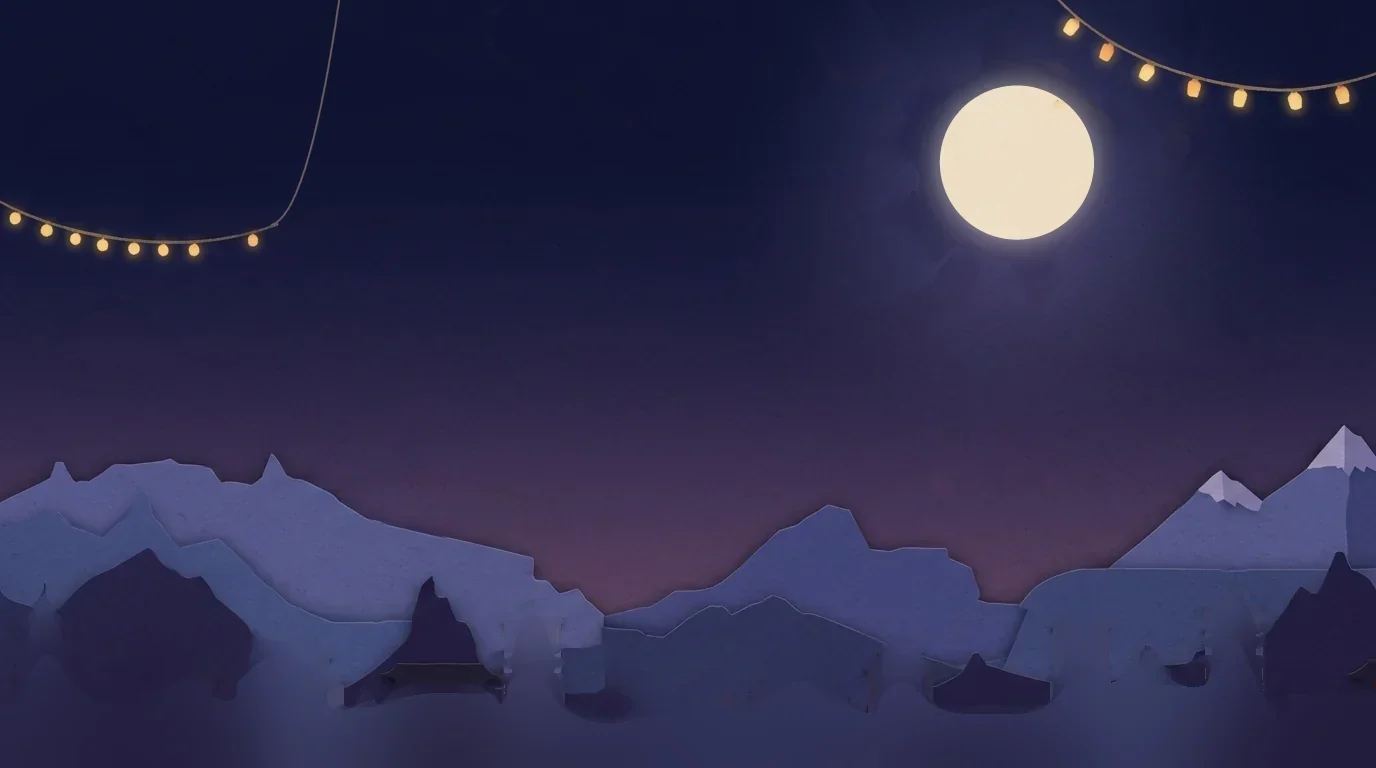
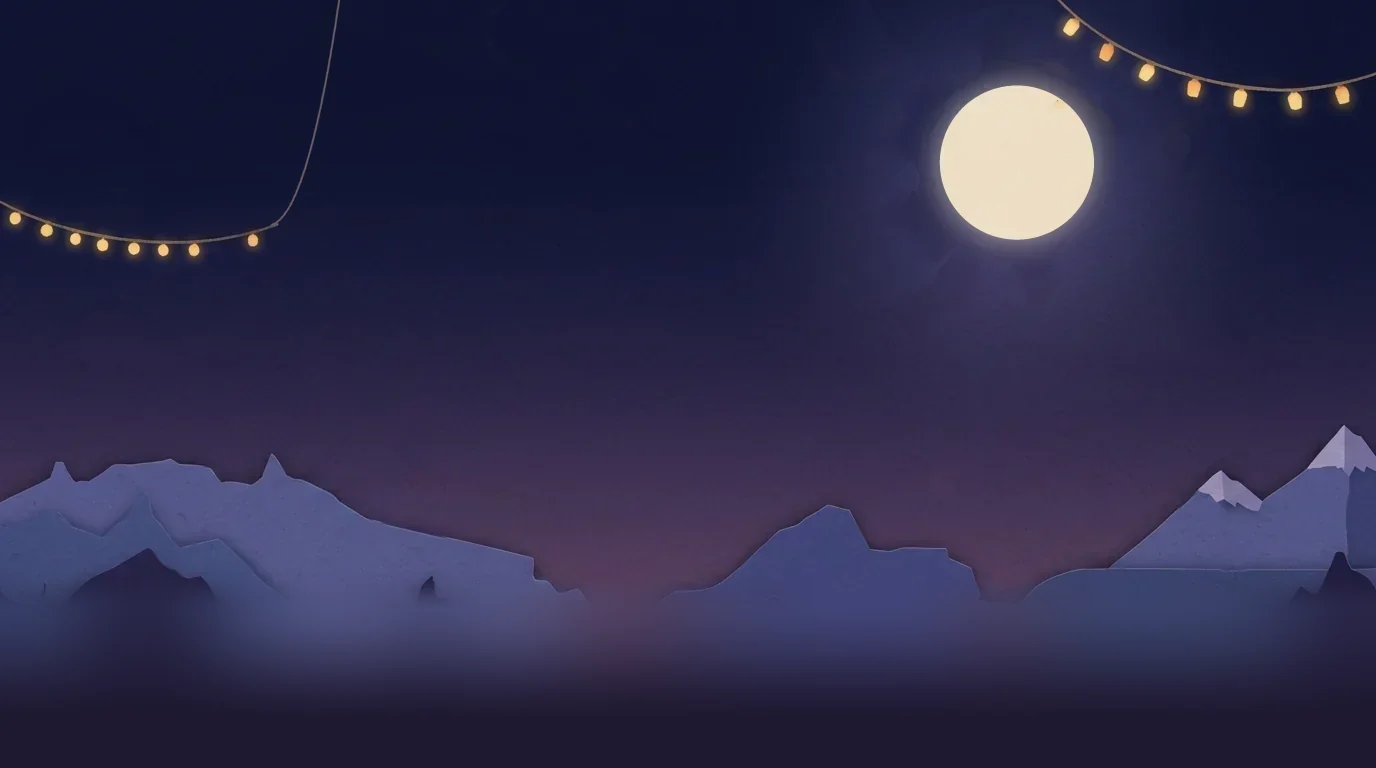
- improving bg images

diff --git a/src/umbrella/art/paint.ts b/src/umbrella/art/paint.ts
@@ -1197,7 +1197,8 @@ const NORMAL_RGB = '140,200,255'
 // The designer's Super Stream is a deeper swirling blue wave; the lantern
 // build's is a fierce orange firework ribbon (the vector game's orange arrows).
 const SUPER_RGB = isLantern ? '255,138,42' : isClay ? '232,128,58' : '70,150,215'
-/** The folded strips' box: a deep navy (a dark amber for a Super Stream), so it reads against the sky. */
+/** Clay's folded strips' box: a deep navy (a dark amber for a Super Stream), so it reads against the
+ *  misty town (lantern keeps its light field: the night sky is dark). */
 const PAPER_FIELD_RGB = '20,28,62'
 const PAPER_FIELD_SUPER_RGB = '72,38,8'
 /** The clay field is a paler, milkier blue than the drawn one. */
@@ -1923,12 +1924,15 @@ const wind = (ctx: CanvasRenderingContext2D, live: WindDef, def: WindDef, w: Wor
     // The paper strips carry their field in their cache (one fill of the current a frame, not two).
     if (!paper) softRect(ctx, tex, live.x, live.y, live.w, live.h, Math.min(f, 10))
     ctx.restore()
-    if (paper) {
-      // The current's box, dark and with a short soft edge, so the light strips stand out on it and a
-      // player reads at a glance where the wind starts (a faint light field melted into the sky).
+    if (paper && isClay) {
+      // Clay: the current's box dark and with a short soft edge, so the light clay strips stand out on
+      // it against the misty town and a player reads at a glance where the wind starts.
       const box = feather(sup ? PAPER_FIELD_SUPER_RGB : PAPER_FIELD_RGB, false)
       if (!box) return false
       paperStrips(ctx, live, def, w, { tex: box, alpha: sup ? 0.44 : 0.4, f: Math.min(f, 5) })
+    } else if (paper) {
+      // Lantern: the light blue (or gold) field reads best on the dark night sky.
+      paperStrips(ctx, live, def, w, { tex, alpha: sup ? 0.14 : 0.1, f: Math.min(f, 10) })
     }
     else if (isClay) clayWind(ctx, live, def, w)
     else windGusts(ctx, live, def, w)

diff --git a/changelog.md b/changelog.md
@@ -1,24 +1,14 @@
 Umbrella — changelog (newest first)
 
-== Kite build (/umbrella/kite/) — unreleased ==
-- [x] 100 kite levels (roadmap #7), designed after the Super Mario Bros. philosophy written up in mario-platformer-philosophy.md: ten worlds of ten (First Breeze, Free Fall, Crosswinds, Thorns, Walldorf, Prickbait, Ventilators & Super Streams, Switches, Hunters, The Storm), each one idea told as introduce → develop → twist → conclude, with tall and wide scrolling worlds and checkpoint flags in the long ones
-- [x] The kite build plays only these levels: no levels server (no pull, push or sync, cutscenes included), no community levels, the repo's campaign overrides and order are not used; its save (progress, local level edits, tuning) is kept apart from the normal game's; players can still edit the kite levels in the level editor, in their browser
-- [x] Every kite level is proven beatable: a bot plays the real engine (scripts/kite-solve.mjs) and the test suite replays its recorded wins; it also checks safe spawns and a rising difficulty curve across the worlds
-
-- [x] Painted kite art (roadmap #6, kite build only): Pweeg and Chad are kites in a cream-paper crayon style (20 spritesheets: idle, walk, float, fall, terminal, broken, cheer, flattened, destroyed, front; platforms, finish, switch platform, ventilator, checkpoint); no umbrella is drawn over a kite. Enemies, props and wind wisps stay vector until painted; the normal /umbrella build contains no painted art
-- [x] Kite animation polish: the walk uses every other painted frame at half cadence, the dance is a steady arms-up bounce with a rock, fast flutters capped at 10–12 fps, the checkpoint flag ping-pongs and dissolves between frames; the goal platform has no label any more and gets flag kites, bunting, a gold landing ring and bobbing chevrons
-- [x] Kite art update: enemy art painted (Prickbait, Walldorf body and face, wind wisps); the dance sheet repainted (it had a pink ground that flickered), kite Pweeg no longer wears sunglasses (Chad's trademark); the Art Desk accepts Gemini's "Automatic" model when the Create image tool is on
-
-- [x] Sounds reverted to their Revision 7 state (sound kit, music, mix and engine); the Revision 9 sound pass is gone, the Walldorf and Prickbait sounds stay. The intro's whoosh/cool, the button and the checkpoint borrow the closest Revision 7 sounds
-
 == Revision 13 — 2026-10-30 ==
+- [x] Lantern sky: the far painting's bottom (the blurred hole the town was cut out of, with hard cut edges) fades cleanly from the mountains into a dusky haze, so nothing broken shows between the roofs when the town slides with the camera
 - [x] Lantern sky: the six paper lanterns painted still into the sky are removed (only the rising lanterns move there now); the strings of lights stay
 - [x] Lantern mine: the burning fuse sits on the painted spark (centred on its densest gold, not its ray tips) and is big enough to cover it
 - [x] Lantern sky: the left string of lights no longer ends in mid-air; its rope runs on up out of the top of the picture
 - [x] Lantern sky: the smudged patches on the mountains (where sky lanterns and clouds were cut out of the painting for the parallax layers and the holes were blurred over) are repainted as continuous paper mountains and sky; the 2x sky rebuilt from it
 - [x] Background music off for now (audio.ts MUSIC_ENABLED): bg-cozy.ogg moved to src/assets/audio/, so no build ships or fetches it; the Music slider hides while it is off
 - [x] itch.io builds in the painted styles: pnpm build:itch:lantern / build:itch:clay (tools/build-art.mjs, a real PKZIP per style in dist/)
-- [x] Wind currents read where they start: the box under the folded strips (lantern and clay) is a dark navy field (dark amber in a Super Stream) with a short soft edge (no border line: a drawn edge read as something solid), instead of a faint light field that melted into the sky
+- [x] Wind currents read where they start: the box under the clay folded strips is a dark navy field (dark amber in a Super Stream) with a short soft edge (no border line: a drawn edge read as something solid), instead of a faint light field that melted into the misty sky; the lantern keeps its light blue field, which reads best on the night sky
 - [x] The painted skies are shown untinted: the dark veil outside the level's box and the night tint inside it drew a dark rectangle beside a lighter strip, which read as a bug
 - [x] Clay wind: the lantern's folded strips with travelling chevrons (a golden Super Stream with arrowheads), painted in clay slabs, as the default clay wind; the clay gusts and arrow grid stay the alternative in the editor's View menu
 - [x] Settings → Audio: Music and Sound Effects volume sliders (saved; at their defaults the game plays its tuned mix; the effects volume also carries the wind and the enemies); the music can be heard while the Audio tab is open and letting go of the effects slider plays a sample
@@ -191,3 +181,14 @@ Umbrella — changelog (newest first)
 - Editor: Reorder dialog — drag campaign levels into a new order, drag saved custom levels into the campaign
 - Designer tuning of 22 Oct is the new default (float speed, Super Stream resistance, wall splat, air turning/drag; level 3, 7, 8 currents)
 - New feel slider: walk speed deceleration
+
+== Kite build (/umbrella/kite/) — unreleased ==
+- [x] 100 kite levels (roadmap #7), designed after the Super Mario Bros. philosophy written up in mario-platformer-philosophy.md: ten worlds of ten (First Breeze, Free Fall, Crosswinds, Thorns, Walldorf, Prickbait, Ventilators & Super Streams, Switches, Hunters, The Storm), each one idea told as introduce → develop → twist → conclude, with tall and wide scrolling worlds and checkpoint flags in the long ones
+- [x] The kite build plays only these levels: no levels server (no pull, push or sync, cutscenes included), no community levels, the repo's campaign overrides and order are not used; its save (progress, local level edits, tuning) is kept apart from the normal game's; players can still edit the kite levels in the level editor, in their browser
+- [x] Every kite level is proven beatable: a bot plays the real engine (scripts/kite-solve.mjs) and the test suite replays its recorded wins; it also checks safe spawns and a rising difficulty curve across the worlds
+
+- [x] Painted kite art (roadmap #6, kite build only): Pweeg and Chad are kites in a cream-paper crayon style (20 spritesheets: idle, walk, float, fall, terminal, broken, cheer, flattened, destroyed, front; platforms, finish, switch platform, ventilator, checkpoint); no umbrella is drawn over a kite. Enemies, props and wind wisps stay vector until painted; the normal /umbrella build contains no painted art
+- [x] Kite animation polish: the walk uses every other painted frame at half cadence, the dance is a steady arms-up bounce with a rock, fast flutters capped at 10–12 fps, the checkpoint flag ping-pongs and dissolves between frames; the goal platform has no label any more and gets flag kites, bunting, a gold landing ring and bobbing chevrons
+- [x] Kite art update: enemy art painted (Prickbait, Walldorf body and face, wind wisps); the dance sheet repainted (it had a pink ground that flickered), kite Pweeg no longer wears sunglasses (Chad's trademark); the Art Desk accepts Gemini's "Automatic" model when the Create image tool is on
+
+- [x] Sounds reverted to their Revision 7 state (sound kit, music, mix and engine); the Revision 9 sound pass is gone, the Walldorf and Prickbait sounds stay. The intro's whoosh/cool, the button and the checkpoint borrow the closest Revision 7 sounds
